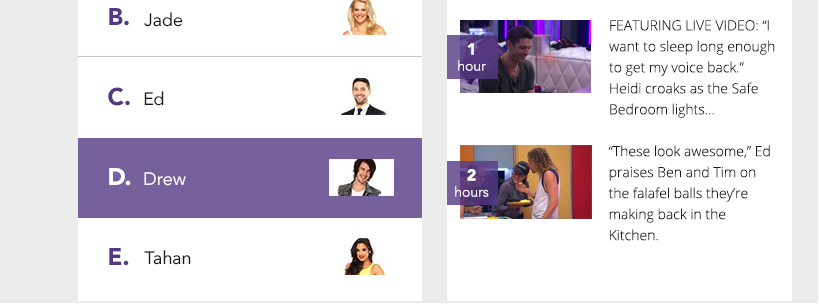
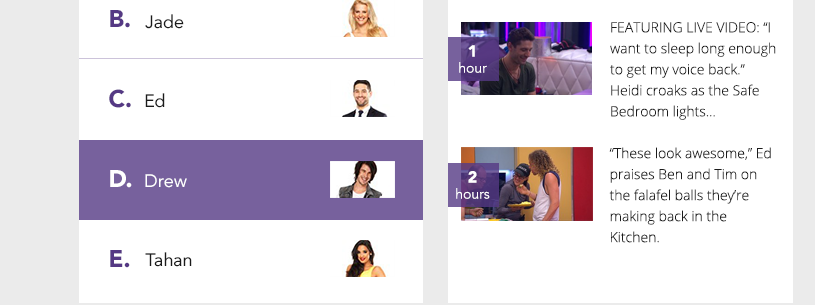
Style stuff

diff --git a/app/public/stylesheets/style.css b/app/public/stylesheets/style.css
@@ -8,6 +8,11 @@ a {
   color: #000000;
 }
 
+img {
+	padding: 0;
+	margin: 0;
+}
+
 #bodyCenter {
 	margin-left: auto;
 	margin-right: auto;

diff --git a/app/public/stylesheets/catchupstyle.css b/app/public/stylesheets/catchupstyle.css
@@ -2,12 +2,7 @@ body {
   background-color: #F1F1F1;
 }
 
-img {
-	padding: 0;
-	margin: 0;
-}
 
-#bodyCenter {
-	width: 1205px;
-}
+
+
 
